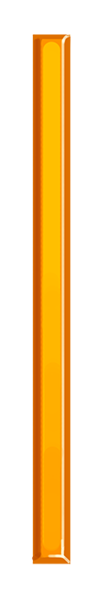
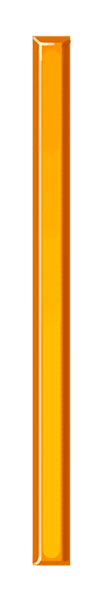
Health bar implemented

Changed region(s): [[0.2913, 0.03, 0.699, 0.96]]

diff --git a/core/src/durianhln/polymorph/screen/GameScreen.java b/core/src/durianhln/polymorph/screen/GameScreen.java
@@ -21,6 +21,7 @@ import durianhln.polymorph.game.PolyGame;
 import durianhln.polymorph.game.Shape;
 import durianhln.polymorph.gameobject.ShapeColor;
 import durianhln.polymorph.game.State;
+import durianhln.polymorph.gameobject.HealthBar;
 import durianhln.polymorph.gameobject.Polymorph;
 import java.awt.Dimension;
 
@@ -45,6 +46,7 @@ public class GameScreen implements Screen {
     //game variables
     private PolyGame game;
     private Stage hud;
+    private HealthBar playerHealthBar;
 
     public GameScreen(Polymorph polymorph) {
         this.polymorph = polymorph;
@@ -68,10 +70,12 @@ public class GameScreen implements Screen {
     private void initHud() {
         hud = new Stage();
         TextureAtlas textureAtlas = assetManager.get(Polymorph.OBJECTS_PATH, TextureAtlas.class);
-        Image playerHealthBar = new Image(textureAtlas.findRegion("hpbar-empty"));
-        Image playerHealth = new Image(textureAtlas.findRegion("hpbar-full"));
+
+        Image barImage = new Image(textureAtlas.findRegion("hpbar-empty"));
+        barImage.setBounds(10, screenSize.height/7, screenSize.width/6, 3*screenSize.height/4);
+        playerHealthBar = new HealthBar(barImage, new Image(textureAtlas.findRegion("hpbar-full")));
+
         hud.addActor(playerHealthBar);
-        hud.addActor(playerHealth);
     }
 
     @Override
@@ -98,6 +102,7 @@ public class GameScreen implements Screen {
 
         game.render(batch);
         // >>>DEMO START
+        playerHealthBar.setValue(player.getHitpoints());
         for (int i = 0; i < Shape.values().length; i++) {
             Shape shape = Shape.values()[i];
             int x = i * screenSize.width / 3 + 25;

diff --git a/core/src/durianhln/polymorph/gameobject/HealthBar.java b/core/src/durianhln/polymorph/gameobject/HealthBar.java
@@ -1,0 +1,39 @@
+package durianhln.polymorph.gameobject;
+
+import com.badlogic.gdx.graphics.g2d.Batch;
+import com.badlogic.gdx.scenes.scene2d.Actor;
+import com.badlogic.gdx.scenes.scene2d.ui.Image;
+
+/**
+ *
+ * @author Darian
+ */
+public class HealthBar extends Actor {
+    private Image barImage;
+    private Image healthImage;
+
+    private final float MAX_HEALTH_HEIGHT;
+
+    public HealthBar(Image barImage, Image healthImage) {
+        setBounds(barImage.getX(), barImage.getY(), barImage.getWidth(), barImage.getHeight());
+        this.barImage = barImage;
+        this.healthImage = healthImage;
+        //magic numbers
+        this.healthImage.setBounds(barImage.getX() + barImage.getWidth()*0.27f,
+                                   barImage.getY() + barImage.getHeight()*0.033f,
+                                   barImage.getWidth()*0.45f,
+                                   barImage.getHeight()*0.93f);
+
+        MAX_HEALTH_HEIGHT = healthImage.getHeight();
+    }
+
+    @Override
+    public void draw(Batch batch, float alpha) {
+        barImage.draw(batch, alpha);
+        healthImage.draw(batch, alpha);
+    }
+
+    public void setValue(int hitpoints) {
+        healthImage.setHeight(MAX_HEALTH_HEIGHT*(hitpoints/100.0f));
+    }
+}

diff --git a/core/src/durianhln/polymorph/gameobject/Player.java b/core/src/durianhln/polymorph/gameobject/Player.java
@@ -17,7 +17,7 @@ public class Player extends Mob {
     public Player(Vector2 position, Dimension size) {
         super(position, new Vector2(0, 0), size);
 
-        hitpoints = 50;
+        hitpoints = 100;
 
         score = 0;
         multiplier = 1;
@@ -47,6 +47,8 @@ public class Player extends Mob {
             if (multiplier <= 2.0f) {
                 multiplier += 0.05f;
             }
+        } else if (hitpoints + match.value < 0) {
+            hitpoints = 0;
         } else {
             hitpoints += match.value;
         }
